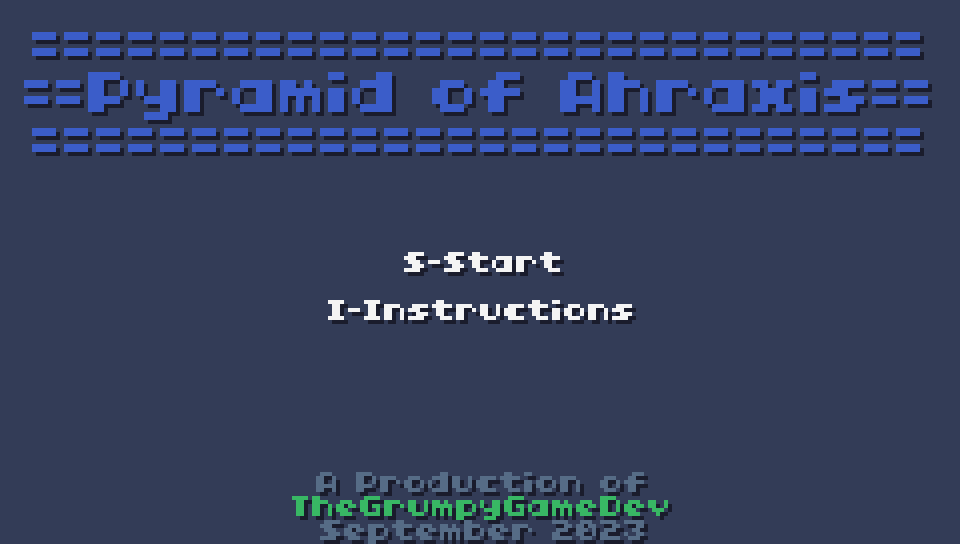
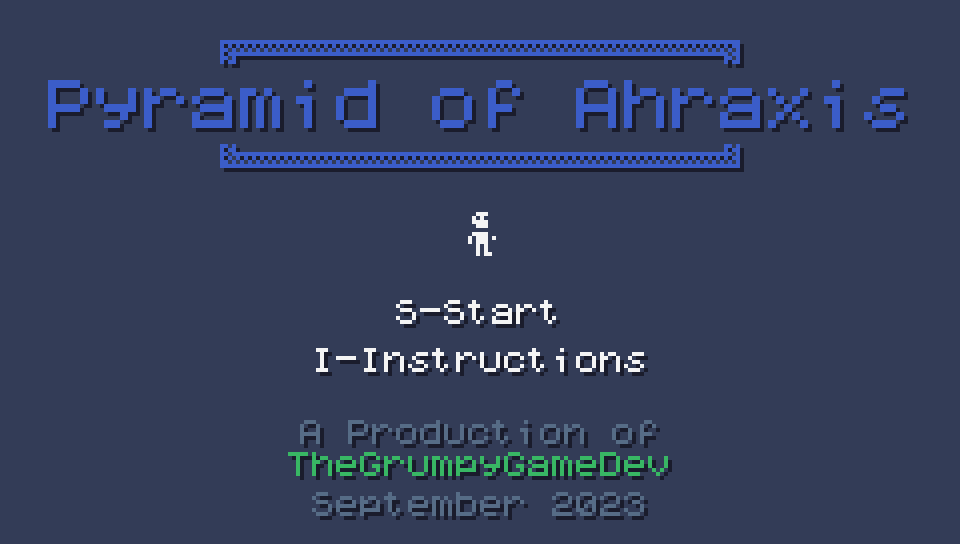
Credit the art and font on the help screen, refresh cover and screenshots

Changed region(s): [[0.0, 0.0625, 0.9688, 0.3438], [0.2812, 0.75, 0.7188, 1.0], [0.3125, 0.375, 0.6875, 0.6875]]

diff --git a/tools/make_assets.py b/tools/make_assets.py
@@ -12,5 +12,5 @@ for i, n in enumerate(['menu', 'play', 'help', 'score'], 1):
 # Cover: the title screen at 2x over a strip of the dungeon at 2x, integer scaling only.
 cover = Image.new('RGB', (630, 500), (26, 28, 44))
 cover.paste(frame('menu').resize((480, 272), Image.NEAREST), (75, 8))
-cover.paste(frame('play').crop((0, 14, 136, 122)).resize((272, 216), Image.NEAREST), (179, 284))
+cover.paste(frame('play').crop((0, 0, 240, 104)).resize((480, 208), Image.NEAREST), (75, 288))
 cover.save(os.path.join(ROOT, 'assets/cover.png'))
